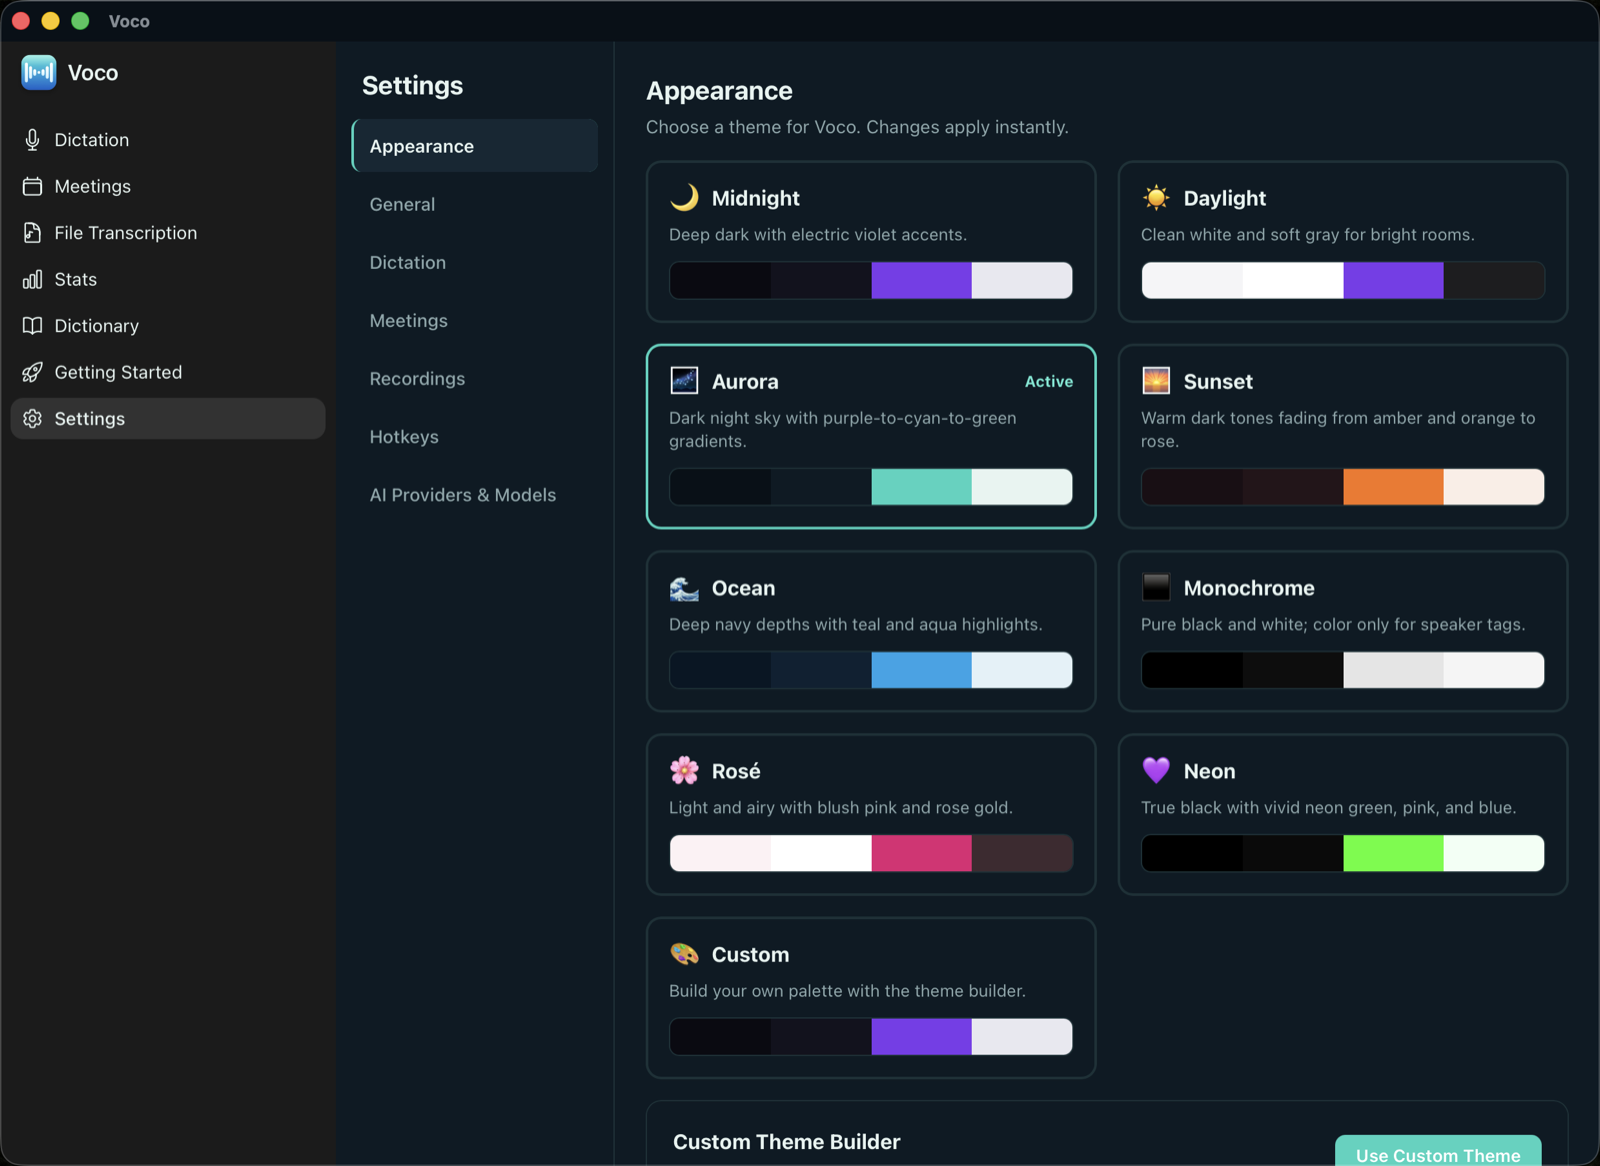
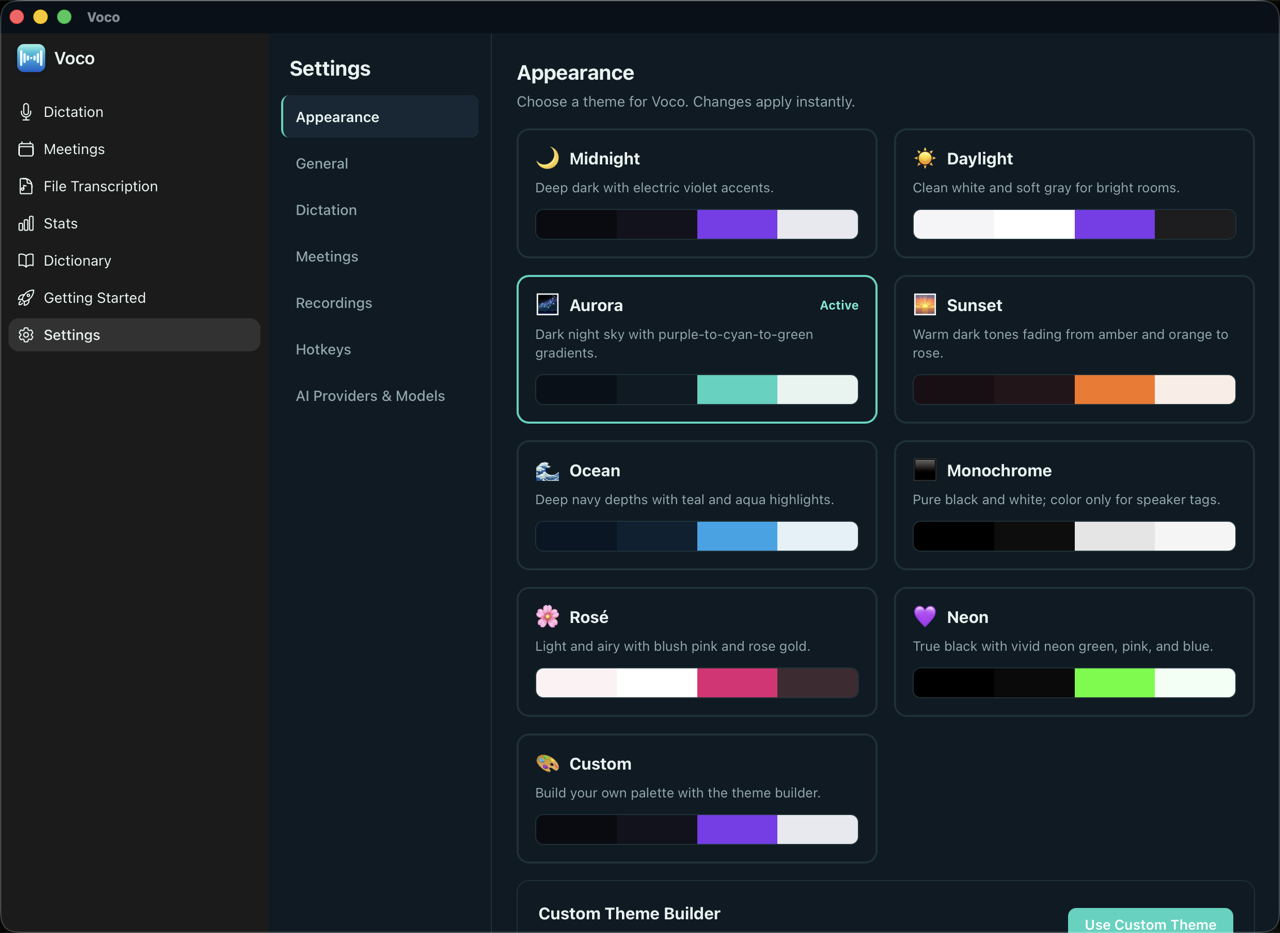
docs: add full app tour GIF + blurred screenshot gallery
Animated tour of every screen (dictation, meetings, file transcription,
stats, dictionary, getting started, all settings tabs) plus static shots.
All personal data (names, transcripts, calendar email, file paths) redacted.

Changed region(s): [[0.0312, 0.3108, 0.0938, 0.3419], [0.75, 0.3108, 0.7812, 0.3419]]

diff --git a/README.md b/README.md
@@ -8,7 +8,9 @@ Talk anywhere and get instant text at your cursor; record meetings and get diari
 
 <br/>
 
-![Voco — real-time dictation](docs/screenshots/dictation.png)
+![Voco — a tour of every screen](docs/screenshots/voco-tour.gif)
+
+<sub>A quick tour of every screen. Personal data in this demo is blurred.</sub>
 
 </div>
 
@@ -32,9 +34,27 @@ Talk anywhere and get instant text at your cursor; record meetings and get diari
 
 ## Screenshots
 
-Real‑time dictation with local models + history (above), and nine built‑in themes plus a custom theme builder:
+> Personal data (names, transcripts, calendar email, file paths) is blurred in these shots.
 
-![Voco — appearance themes](docs/screenshots/themes.png)
+**Real‑time dictation** — press the hotkey, speak, text lands at your cursor; every clip kept in local history.
+
+![Dictation](docs/screenshots/dictation.png)
+
+**Meetings** — live transcript with neural speaker diarization, and structured AI summaries (Google‑Meet / Granola / Meetily‑style templates, tables, short/medium/detailed).
+
+| Transcript + diarization | AI summary |
+| --- | --- |
+| ![Meeting transcript](docs/screenshots/meeting-transcript.png) | ![Meeting summary](docs/screenshots/meeting-summary.png) |
+
+**Stats** and **themes** — usage dashboard, plus nine built‑in themes and a custom theme builder.
+
+| Stats | Appearance |
+| --- | --- |
+| ![Stats](docs/screenshots/stats.png) | ![Themes](docs/screenshots/themes.png) |
+
+**AI providers & models** — mix local (embedded) and cloud backends, pick a provider/model per task.
+
+![AI providers](docs/screenshots/providers.png)
 
 ## Requirements
 